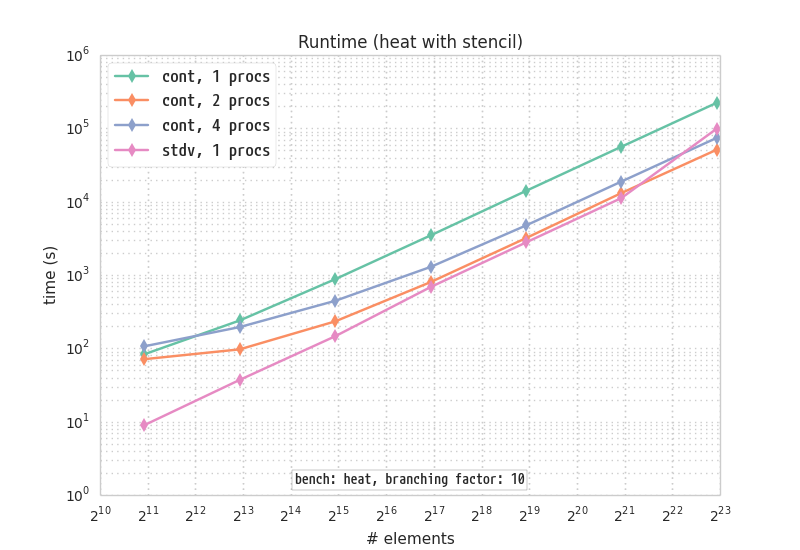
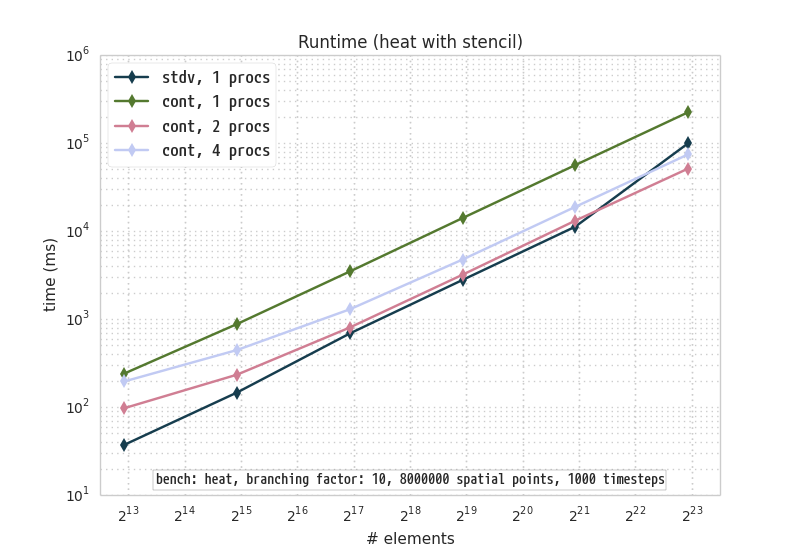
newest graphs, mostly final but slplot did get a bit sloppy

diff --git a/bench/slplot.py b/bench/slplot.py
@@ -106,7 +106,7 @@ def fpvs_all(pkey):
 def hpvs_all(pkey):
     return "cont" in pkey
 def rsvt(pkey):
-    return "16" in pkey
+    return "4" in pkey
 def svt(pkey):
     return True
 def fbvs(pkey):
@@ -130,7 +130,7 @@ selector = {
 ################################################################################
 
 # filename path/template
-date = "2016-09-28"
+date = "2016-09-19"
 log_path = "logs_" + date
 fname_tmpl = log_path + "/{0:s}_{1:d}_{2:d}_{3:d}.log"
 
@@ -176,8 +176,8 @@ if "steps-v-speed" in bench_name:
 graph_name = "graphs_" + date + "/" + bench_name
 
 # processor counts
-proc_set = [1, 2, 4, 8, 16]
-proc_val = 16
+proc_set = [1, 2, 4]
+proc_val = 4
 procs = proc_set
 
 # vector sizes
@@ -240,27 +240,28 @@ for k,v in pdata.items():
     print (k,v)
 
 def keysort(s):
-    if "reduce" in s[0]:
+    if True:
         keyorder = {k:v for v,k in enumerate(["seq", "vec", "cont", "async", "omp"])}
         for k,v in keyorder.items():
             if k in s[0]:
-                print "AH HA",k,s[0]
-                return v
-        return keyorder.items().size()
+                print "AH HA",k,s[0],v
+                print v*5+int("0" + "".join(i for i in s[0] if i.isdigit()))
+                return v*5+int("0" + "".join(i for i in s[0] if i.isdigit()))
+        return len(keyorder)
 #   elif "foreach" in s[0]:
 #       keyorder = OrderedDict({k:v for v,k in enumerate(["stdv_foreach01", "cont_foreach01", "2", "4", "8", "16"])})
 #       for k,v in keyorder.items():
 #           if k in s[0]:
 #               print k,s[0]
 #               return v
-#       return keyorder.items().size()
-    elif "heat" in s[0]:
-        keyorder = OrderedDict({k:v for v,k in enumerate(["stdv_heat01", "cont_heat01", "2", "4", "8", "16"])})
-        for k,v in keyorder.items():
-            if k in s[0]:
-                print k,s[0]
-                return v
-        return keyorder.items().size()
+#       return len(keyorder)
+#   elif "heat" in s[0]:
+#       keyorder = OrderedDict({k:v for v,k in enumerate(["stdv_heat1", "cont_heat1", "2", "4", "8", "16"])})
+#       for k,v in keyorder.items():
+#           if k in s[0]:
+#               print k,s[0]
+#               return v
+#       return len(keyorder)
 
     print s[0]
     return s[0]
@@ -298,12 +299,12 @@ if "-v-speed" in bench_name:
             sns.plt.plot(pvals[0], [y / baseline for y in pvals[1]], marker='d', label=plab)
 
     handles, labels = sns.plt.gca().get_legend_handles_labels()
-    labels, handles = zip(*sorted(zip(labels, handles), key=lambda t: len(t[0])))
+    labels, handles = zip(*zip(labels, handles))
     leg = sns.plt.legend(handles, labels, loc='upper right', fancybox=True, frameon=True, prop=font0)
     leg.get_frame().set_alpha(1.0)
     sns.plt.xlim(1, 4)
     if "reduce" in bench_name:
-        sns.plt.ylim(0.0, 1.3)
+        sns.plt.ylim(0.4, 1.2)
     elif "foreach" in bench_name:
         sns.plt.ylim(0.3, 1.5)
     sns.plt.title('Scaling (' + test_name + ' with ' + op + ')')
@@ -313,17 +314,16 @@ if "-v-speed" in bench_name:
     figtext = 'bench: ' + test_name + ', branching factor: 10'
     if "width" in bench_name:
         figtext += ", " + str(r_val) + " timesteps"
-        sns.plt.ylim(0.0, 4.5)
+        #sns.plt.ylim(0.0, 4.5)
     if "steps" in bench_name:
         figtext += ", " + str(c_val) + " spatial points"
-        sns.plt.ylim(0.0, 1.6)
+        #sns.plt.ylim(0.0, 1.6)
 elif "size-v-time" in bench_name:
     for pkey, pvals in pdata.items():
         if not selector[bench_name](pkey):
             print pkey
             continue
         plab = "".join(i for i in pkey if not i.isdigit())
-        print plab, pvals
         if "cont" in plab:
             plab = "cont"
         elif "stdv" in plab:
@@ -332,16 +332,17 @@ elif "size-v-time" in bench_name:
                 continue
         ptag = "".join(i for i in pkey if i.isdigit())
         plab += ", " + ptag.strip("0") + " procs"
+        print plab, pvals
         sns.plt.plot(pvals[0], pvals[1], marker='d', label=plab)
 
     handles, labels = sns.plt.gca().get_legend_handles_labels()
-    labels, handles = zip(*sorted(zip(labels, handles), key=lambda t: len(t[0])))
+    labels, handles = zip(*zip(labels, handles))
     leg = sns.plt.legend(handles, labels, loc='upper left', fancybox=True, frameon=True, prop=font0)
     leg.get_frame().set_alpha(1.0)
     if "reduce" in bench_name:
-        sns.plt.ylim(0.01, 300)
+        sns.plt.ylim(0.02, 100)
     elif "foreach" in bench_name:
-        sns.plt.ylim(0.24, 400)
+        sns.plt.ylim(0.18, 1000)
     elif "heat" in bench_name:
         sns.plt.xlim(2**12.5, 2**23.5)
     sns.plt.xscale('log', basex=2)
